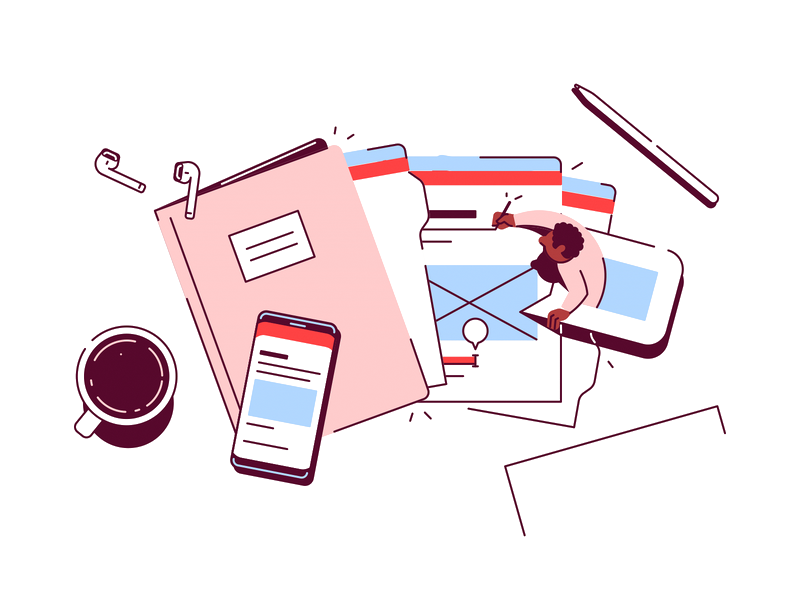
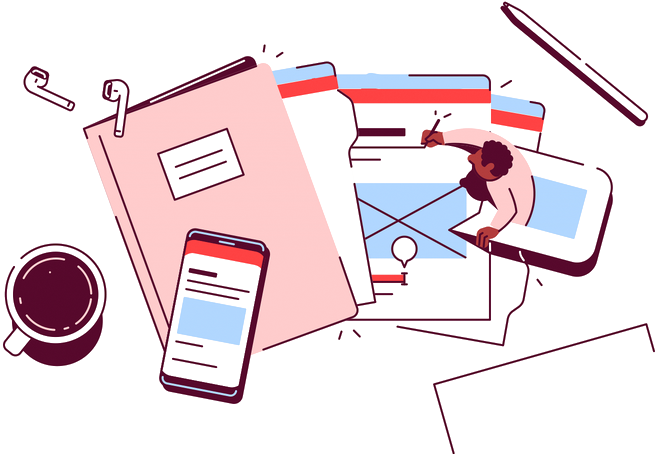
refactor: updated the Landing component to use bootstrap components

diff --git a/src/components/Landing.tsx b/src/components/Landing.tsx
@@ -1,57 +1,67 @@
 import styled from "@emotion/styled";
 import React from "react";
+import Col from "react-bootstrap/Col";
 import Container from "react-bootstrap/Container";
+import Image from "react-bootstrap/Image";
+import Row from "react-bootstrap/Row";
+import { Helmet } from "react-helmet";
 import colors from "../theme/colors";
 import { Button } from "./widgets";
 
 /**
  * Component
  */
-const Landing = () => {
+const Landing = (): JSX.Element => {
   return (
-    <Container className="d-flex flex-column align-items-center justify-content-between vh-100 overflow-hidden">
-      <div className="d-flex justify-content-between align-items-center px-md-5 px-3 w-100 py-2 py-md-0">
-        <Logo src={require("../images/logo.png")} alt="Asap Logo" className="img-fluid" />
-        <div>
-          <Button title="Sign In" onClick={() => console.log("Signed In")} className="mr-2" />
+    <>
+      <Helmet>
+        <title>Asap - Task Manager</title>
+        <meta name="title" content="Asap - Task Manager" />
+      </Helmet>
+
+      <Container className="d-flex flex-column align-items-center justify-content-between vh-100">
+        <Row className="align-items-center w-100 px-md-5 px-3 py-2 py-md-0">
+          <Col xs={4} className="p-0">
+            <Logo src={require("../images/logo.png")} alt="Asap Logo" fluid />
+          </Col>
+          <Col xs={8} className="p-0">
+            <div className="d-flex justify-content-end">
+              <Button title="Sign In" onClick={() => console.log("Signed In")} className="mr-2" />
+              <Button
+                title="Sign Up"
+                onClick={() => console.log("Signed Up")}
+                bgColor={colors.secondary.light}
+                color={colors.background}
+              />
+            </div>
+          </Col>
+        </Row>
+
+        <Row className="flex-column align-items-center w-100">
+          <h1 className="text-center mb-3">Complete your tasks, ASAP!</h1>
+          <p className="text-center w-75">
+            Use Kanban boards, checklists and assign tasks to your friends, colleagues & employees. Prioritize and
+            complete your projects in a fun & rewarding way with Asap.
+          </p>
           <Button
-            title="Sign Up"
-            onClick={() => console.log("Signed Up")}
-            bgColor={colors.secondary.light}
+            title="Get Started"
+            onClick={() => console.log("Getting Started")}
+            bgColor={colors.primary}
             color={colors.background}
+            className="mt-3"
           />
-        </div>
-      </div>
+        </Row>
 
-      <div className="d-flex flex-column align-items-center">
-        <h1 className="text-center mb-3">Complete your tasks, ASAP!</h1>
-        <p className="text-center w-75">
-          Use Kanban boards, checklists and assign tasks to your friends, colleagues & employees. Prioritize and
-          complete your projects in a fun & rewarding way with Asap.
-        </p>
-        <Button
-          title="Get Started"
-          onClick={() => console.log("Getting Started")}
-          bgColor={colors.primary}
-          color={colors.background}
-          className="mt-3"
-        />
-      </div>
-
-      <img
-        src={require("../images/landing.png")}
-        width="800"
-        alt="A man drinking coffee & working"
-        className="img-fluid"
-      />
-    </Container>
+        <Image src={require("../images/landing.png")} width="600" alt="A man drinking coffee & working" fluid />
+      </Container>
+    </>
   );
 };
 
 /**
  * Styled Components
  */
-const Logo = styled.img`
+const Logo = styled(Image)`
   @media only screen and (max-width: 576px) {
     width: 50px;
   }
